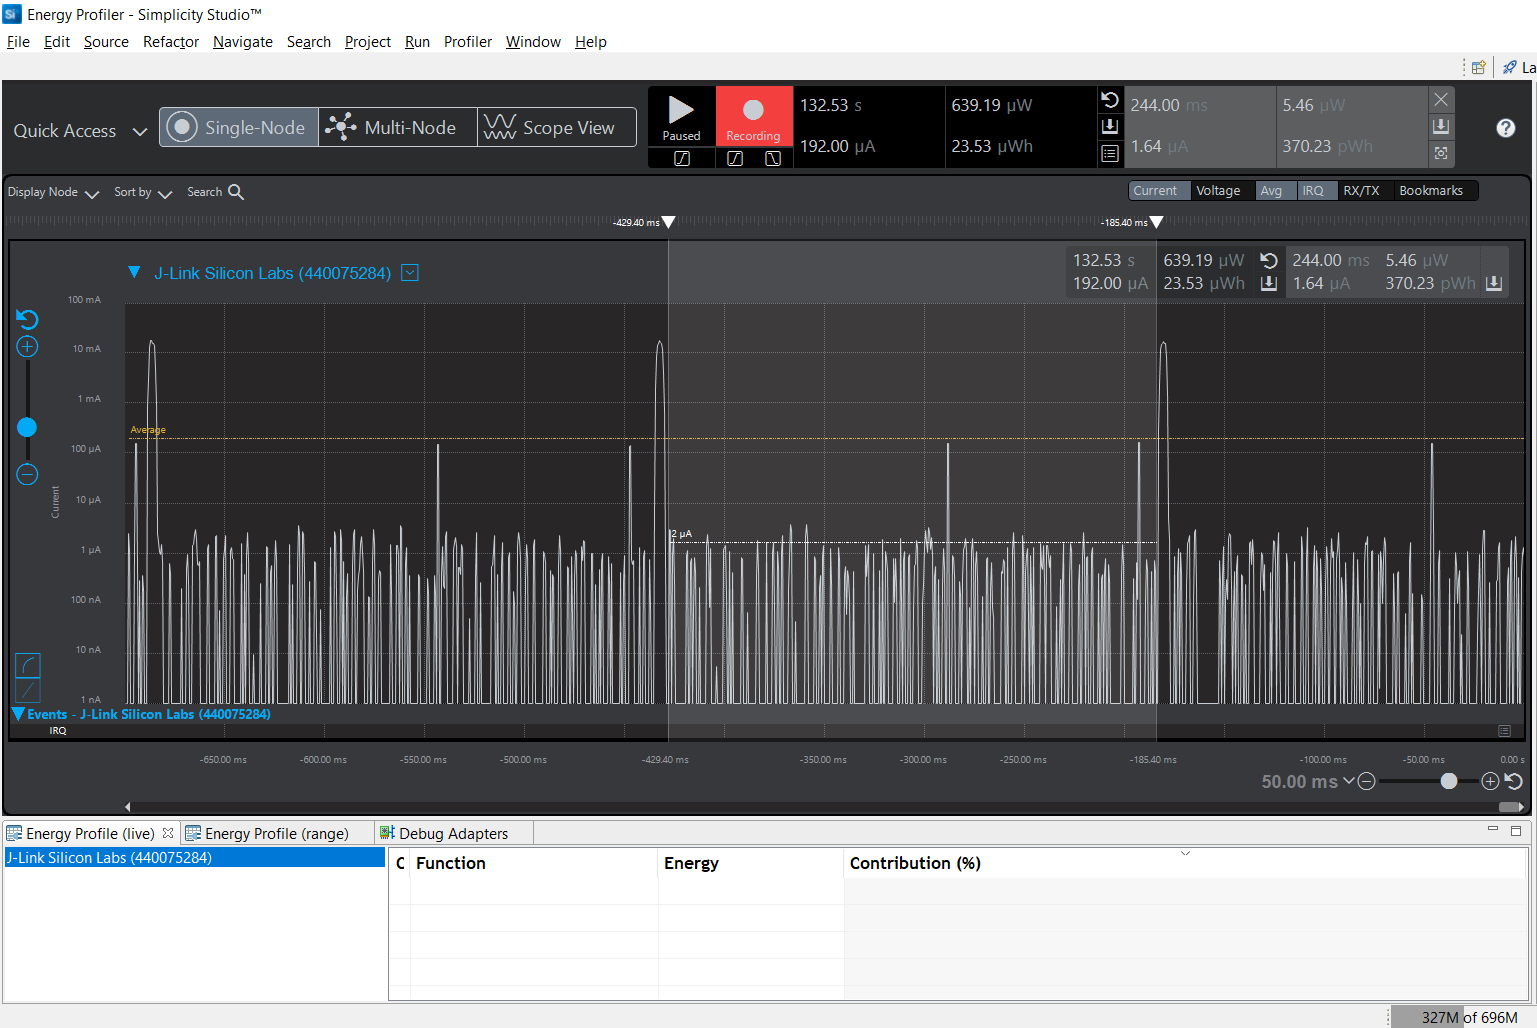
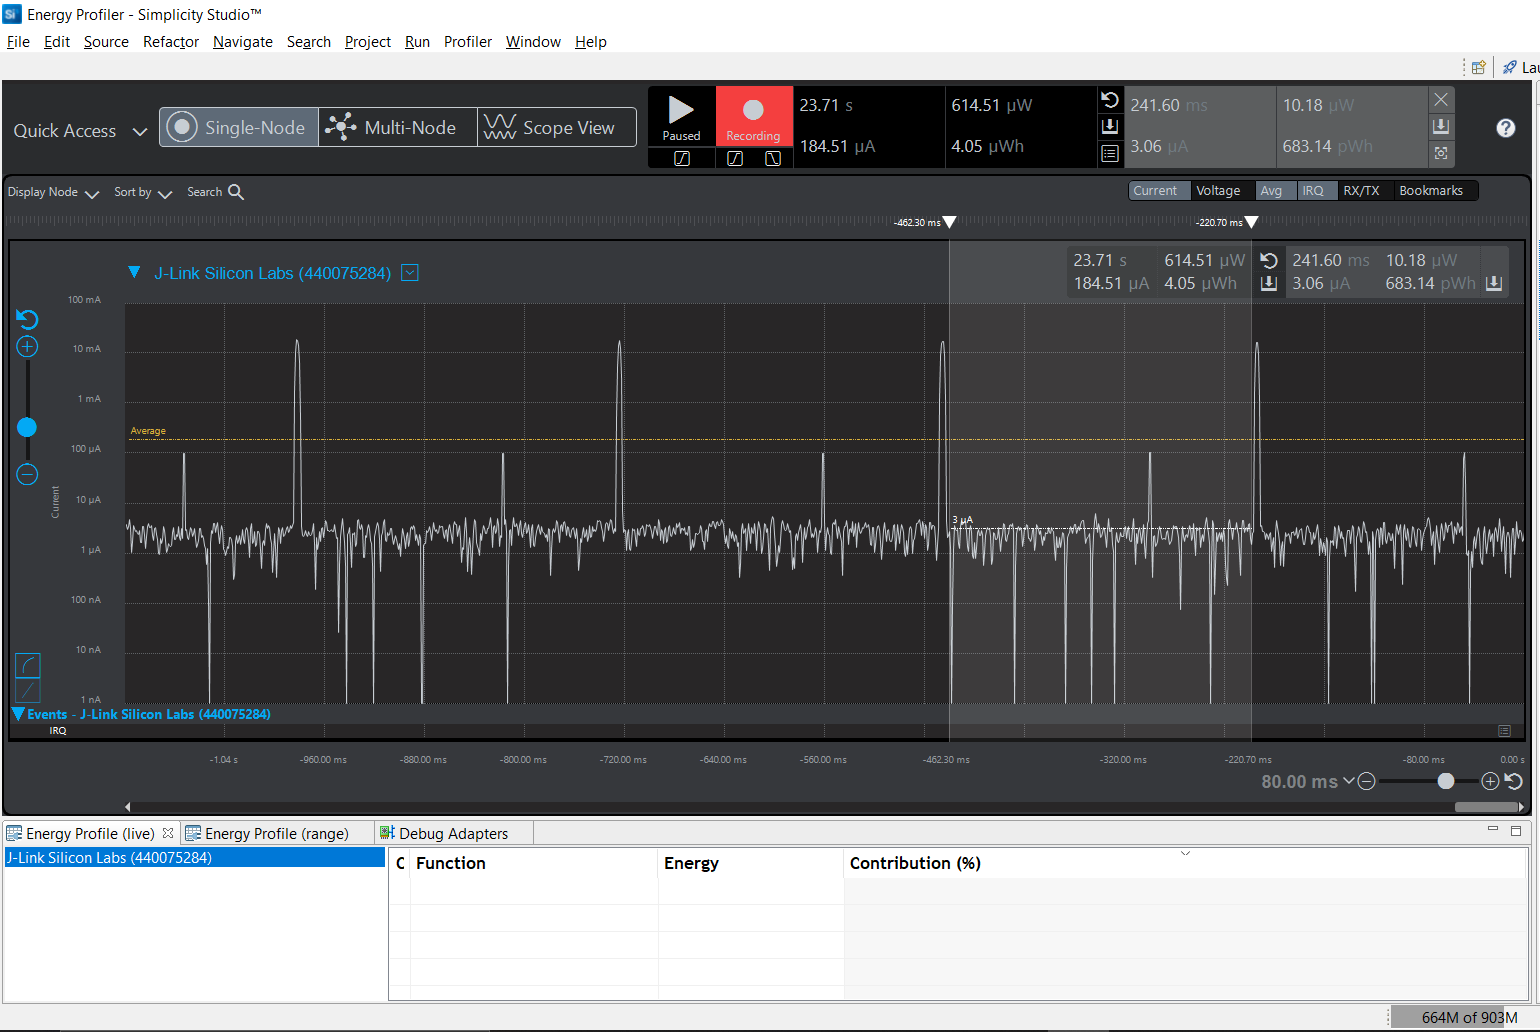
Client now acknowledges Server's requested connection parameters. Updated screenshots and questions .MD files.

diff --git a/src/ble.c b/src/ble.c
@@ -103,8 +103,15 @@ void handle_ble_event(sl_bt_msg_t *evt)
       /* Connection Opened Event */
       case sl_bt_evt_connection_opened_id:
         //LOG_INFO("Connection opened\r\n");
+
+        /* Stop advertising */
         sl_bt_advertiser_stop(ble_data.advertisingSetHandle);
-        sl_bt_connection_set_parameters(evt->data.evt_connection_opened.connection, 60, 60, 4, 75, 0, 0xFFFF);
+
+        /* Get the connection handle */
+        ble_data.gatt_server_connection = evt->data.evt_connection_opened.connection;
+
+        /* Set the connection parameters */
+        sl_bt_connection_set_parameters(evt->data.evt_connection_opened.connection, 60, 60, 3, 75, 0, 0xFFFF);
         break;
 
       // -------------------------------
@@ -112,7 +119,9 @@ void handle_ble_event(sl_bt_msg_t *evt)
       /* Connection Close Event */
       case sl_bt_evt_connection_closed_id:
 
+        /* Reset the connection handle and the indication bool */
         ble_data.gatt_server_connection = 0;
+        ble_data.readTemperature = 0;
 
         //LOG_INFO("Connection closed\r\n");
 
@@ -134,9 +143,9 @@ void handle_ble_event(sl_bt_msg_t *evt)
       case sl_bt_evt_connection_parameters_id:
 
         LOG_INFO("Interval = %d\r\n Latency = %d\r\n Timeout = %d\r\n",
-                  evt->data.evt_connection_parameters.interval,
-                  evt->data.evt_connection_parameters.latency,
-                  evt->data.evt_connection_parameters.timeout);
+                  (int)((evt->data.evt_connection_parameters.interval)*1.25),
+                  (int)(evt->data.evt_connection_parameters.latency),
+                  (int)((evt->data.evt_connection_parameters.timeout)*10));
 
         break;
 
@@ -150,18 +159,19 @@ void handle_ble_event(sl_bt_msg_t *evt)
 */
    if  (evt->data.evt_gatt_server_characteristic_status.characteristic == gattdb_temperature_measurement)
     {
-      ble_data.gatt_server_connection = evt->data.evt_gatt_server_characteristic_status.connection;
+      //ble_data.gatt_server_connection = evt->data.evt_gatt_server_characteristic_status.connection;
 
       if( evt->data.evt_gatt_server_characteristic_status.status_flags == 1 && \
-          evt->data.evt_gatt_server_characteristic_status.client_config_flags == 2)
+          evt->data.evt_gatt_server_characteristic_status.client_config_flags == sl_bt_gatt_indication)
         {
           /* Start reading temperature */
           ble_data.readTemperature = 1;
         }
 
       /* Indications have been turned off */
-      else if (evt->data.evt_gatt_server_characteristic_status.client_config_flags == 0)
-                ble_data.readTemperature = 0;
+      else if (evt->data.evt_gatt_server_characteristic_status.client_config_flags == sl_bt_gatt_disable)
+                ble_data.readTemperature = 0
+                ;
     }
         break;
 

diff --git a/src/i2c.c b/src/i2c.c
@@ -68,7 +68,7 @@ void powerOnSi7021()
 {
   /* Turn on power to the sensor and wait for 100ms */
   sensorLPMControl(true);
-  timerWaitUs_irq(85*1000);
+  timerWaitUs_irq(80*1000);
 }
 
 void getTemperatureSi7021()
@@ -86,8 +86,8 @@ void getTemperatureSi7021()
 
 void waitConversionTimeSi7021()
 {
-  /* Wait for 15ms for the sensor to get the data */
-  timerWaitUs_irq(15*1000);
+  /* Wait for 11ms for the sensor to get the data */
+  timerWaitUs_irq(11*1000);
 }
 
 void readTemperatureSi7021()

diff --git a/questions/Assignment5-HealthThermometerProfile-BLE.md b/questions/Assignment5-HealthThermometerProfile-BLE.md
@@ -10,7 +10,7 @@ See [Mastering Markdown](https://guides.github.com/features/mastering-markdown/)
    ![advertising_period](screenshots/assignment5/advertising_period.PNG)  
 
 2. What is the average current between advertisements?
-   Answer: 1.64uA.
+   Answer: 3.06uA.
    <br>Screenshot:  
    ![avg_current_between_advertisements](screenshots/assignment5/avg_current_between_advertisements.PNG)  
 
@@ -20,16 +20,17 @@ See [Mastering Markdown](https://guides.github.com/features/mastering-markdown/)
    ![peak_current_of_advertisement](screenshots/assignment5/peak_current_of_advertisement.PNG)  
 
 4. Provide screen shot showing the connection interval settings. Do they match the values you set in your slave(server) code or the master's(client) values?.
-   <br>Screenshot: 45mS. They do not match as the EFR Connect Client App does not honor the connection parameter settings requested by the Gecko.
+   <br>Screenshot: 298mS. Yes, they do match as the Client acknowledges the connection parameters required by the Server. (300mS is the slave latency and most 
+   connection events are observed to occur at this time period. Occaisionally, the connection interval is noted to be 75mS.
    ![connection_interval](screenshots/assignment5/connection_interval.PNG)  
 
 5. What is the average current between connection intervals?
-   Answer: 924.19nA.
+   Answer: 3.46uA.
    <br>Screenshot:  
    ![avg_current_between_connection_intervals](screenshots/assignment5/avg_current_between_connection_intervals.PNG)  
 
 6. If possible, provide screen shot verifying the slave latency matches what was reported when you logged the values from event = gecko_evt_le_connection_parameters_id. 
-   <br>Screenshot:  
+   <br>Screenshot:  Please refer to the last value in the screenshot. (Latency = 3 = 300mS)
    ![slave_latency](screenshots/assignment5/slave_latency.PNG)  
 
 7. What is the peak current of a data transmission when the phone is connected and placed next to the Blue Gecko? 
